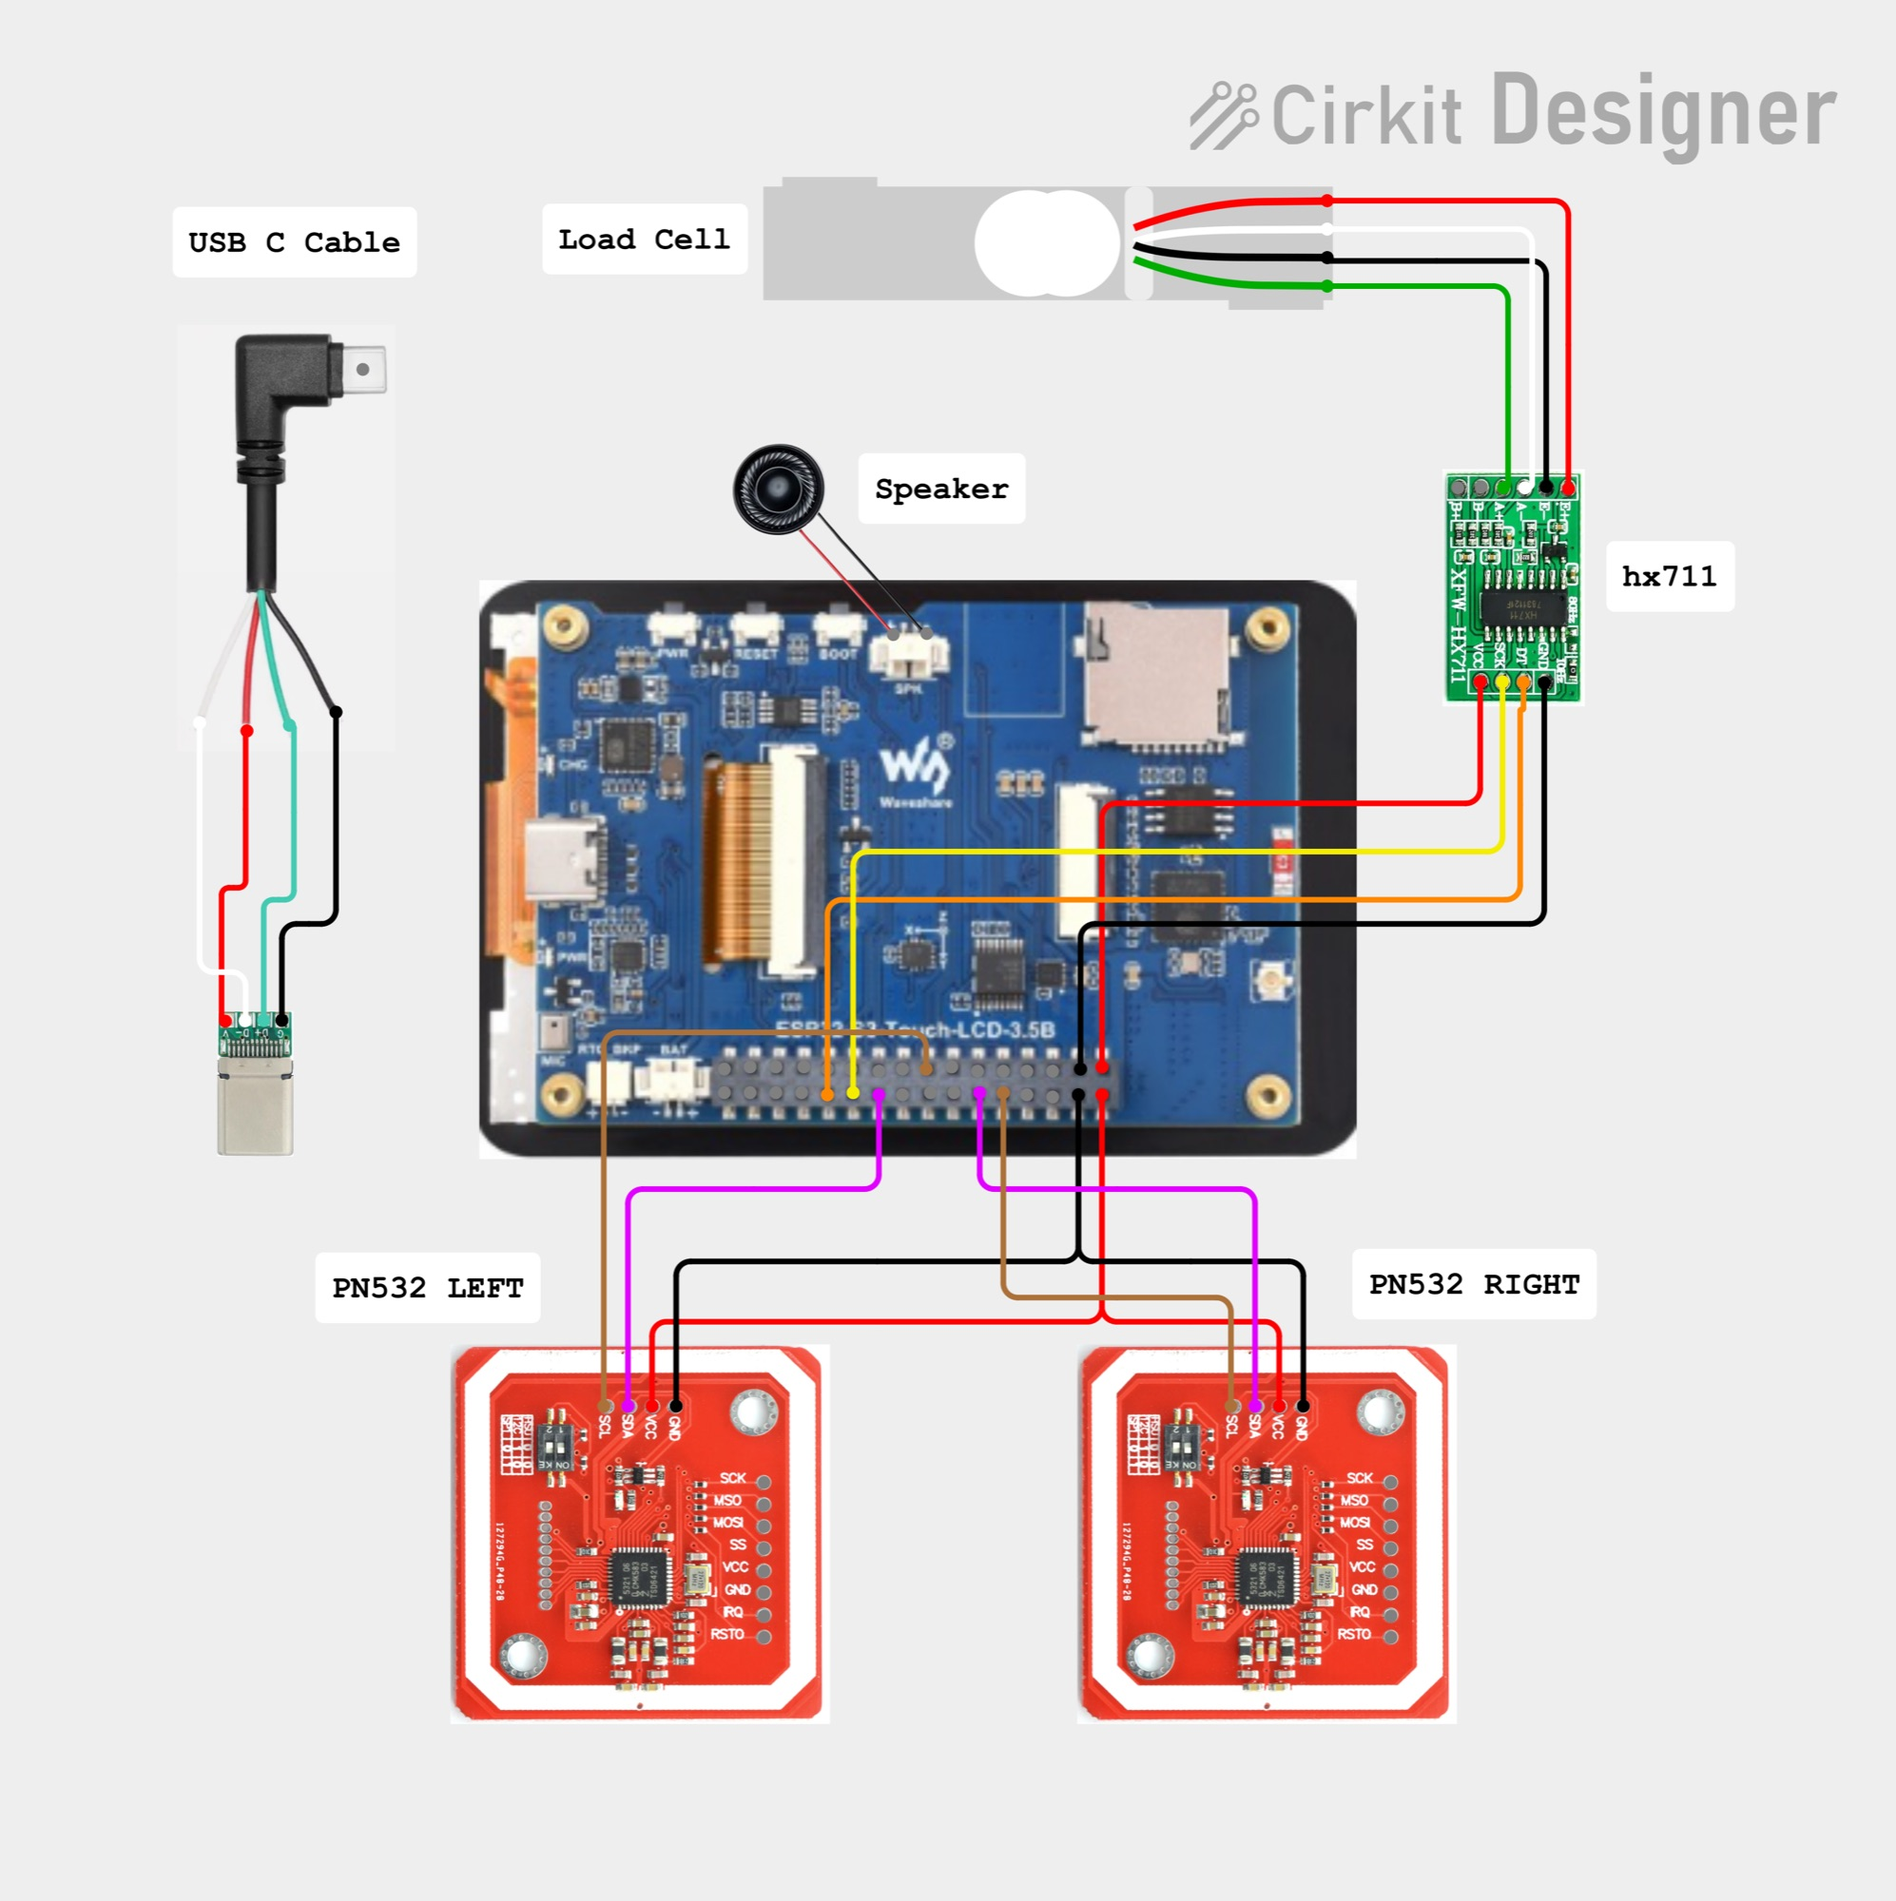
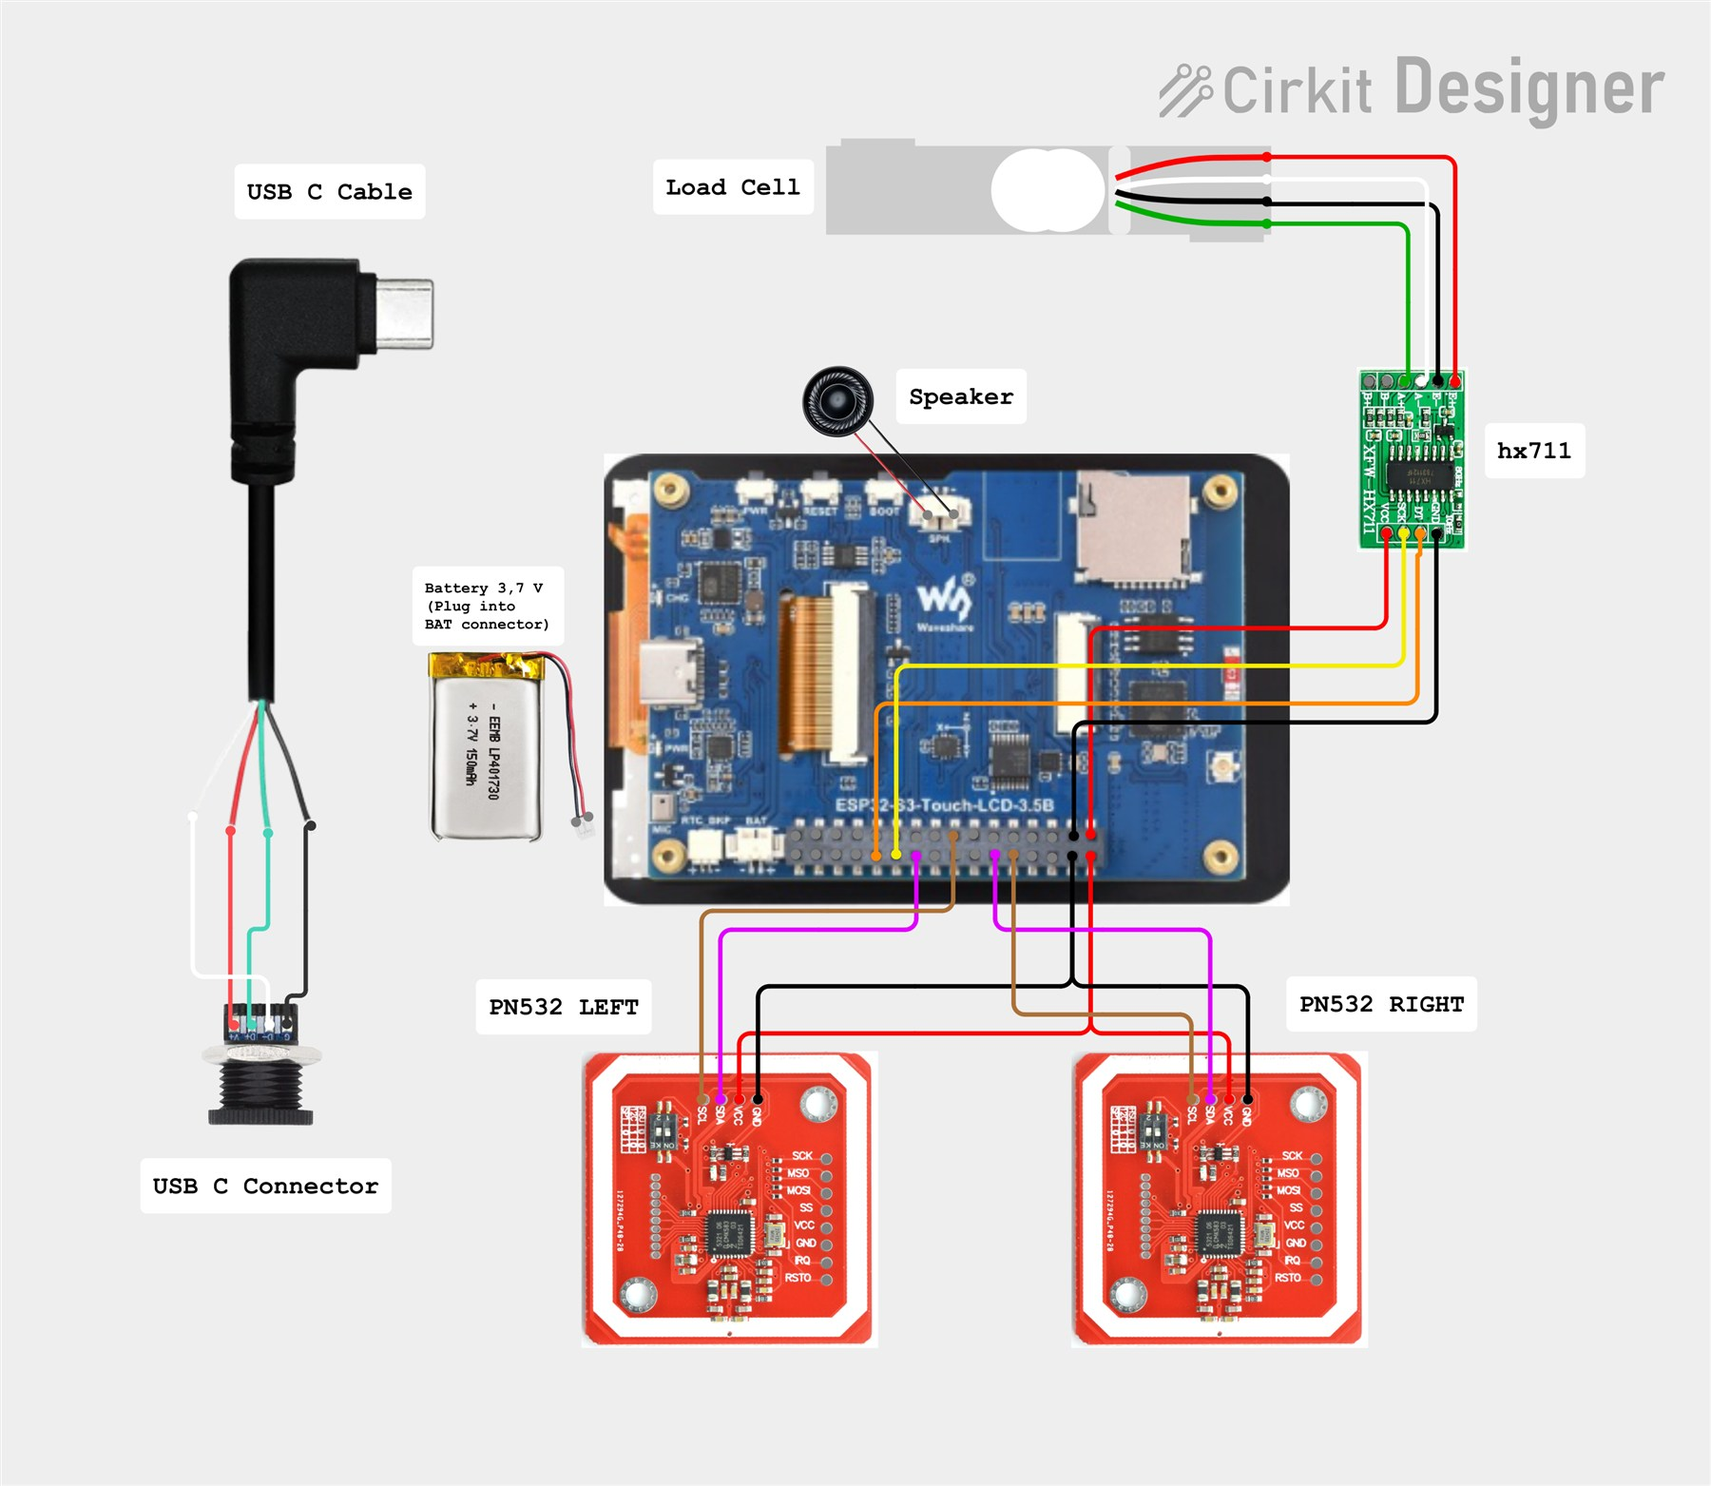
Add battery purchase link, assembly photos, and new wiring diagram (#7)
- Make the optional Li-ion battery a clickable Amazon link in the
  README and HARDWARE bill of materials, and add it as its own row
  (with the same link) in the web installer's shopping list, right
  after the USB-C connector.
- Add a 3D-printed enclosure assembly photo grid to the README (front/
  rear three-quarter, close-up, side elevation), plus real photos
  showing scale orientation and PN532 mounting position.
- Replace the wiring diagram with an updated Cirkit Designer render
  and point every reference (README, HARDWARE.md, web installer,
  MAKERWORLD.md) at the new project URL.

Changed region(s): [[0.2178, 0.0307, 0.9644, 0.9213], [0.0933, 0.1228, 0.2489, 0.7678]]

diff --git a/web-installer/i18n.js b/web-installer/i18n.js
@@ -40,7 +40,7 @@ en: {
   badge_single: "one reader",
   wiring_btn: "Not sure? Open the wiring diagram",
   wiring_hint: "Drag to turn the board, scroll to zoom. Click a wire to follow where it goes.",
-  cirkit_credit_html: 'Edit this project interactively in <a href="https://app.cirkitdesigner.com/project/f1310604-82fe-4458-9baa-9507c8e95c80" target="_blank" rel="noopener">Cirkit Designer</a>.',
+  cirkit_credit_html: 'Edit this project interactively in <a href="https://app.cirkitdesigner.com/project/c6aa6c0a-9462-498f-8923-9ad4454e0e69" target="_blank" rel="noopener">Cirkit Designer</a>.',
 
   s2_title: "Install",
   btn: "Connect and install",
@@ -76,6 +76,7 @@ en: {
   p_conn: "USB-C connector",
   p_wires: "Dupont wires",
   p_screws: "M3 self-tapping screws",
+  p_battery: "Li-ion battery (optional)",
   cart_incl: "Supplied with the board: the small speaker.",
   cart_opt: "Optional: a Li-ion battery. The scale runs on USB.",
   cart_full: "Full list with prices"
@@ -107,7 +108,7 @@ fr: {
   badge_single: "un lecteur",
   wiring_btn: "Pas sûr ? Ouvrir le schéma de câblage",
   wiring_hint: "Faites glisser pour tourner la carte, molette pour zoomer. Cliquez sur un fil pour suivre son trajet.",
-  cirkit_credit_html: 'Modifiez ce projet de façon interactive dans <a href="https://app.cirkitdesigner.com/project/f1310604-82fe-4458-9baa-9507c8e95c80" target="_blank" rel="noopener">Cirkit Designer</a>.',
+  cirkit_credit_html: 'Modifiez ce projet de façon interactive dans <a href="https://app.cirkitdesigner.com/project/c6aa6c0a-9462-498f-8923-9ad4454e0e69" target="_blank" rel="noopener">Cirkit Designer</a>.',
 
   s2_title: "Installer",
   btn: "Connecter et installer",
@@ -143,6 +144,7 @@ fr: {
   p_conn: "Connecteur USB-C",
   p_wires: "Fils Dupont",
   p_screws: "Vis autotaraudeuses M3",
+  p_battery: "Batterie Li-ion (optionnel)",
   cart_incl: "Fourni avec la carte : le petit haut-parleur.",
   cart_opt: "Optionnel : une batterie Li-ion. La balance fonctionne sur USB.",
   cart_full: "Liste complète avec les prix"
@@ -174,7 +176,7 @@ de: {
   badge_single: "ein Leser",
   wiring_btn: "Unsicher? Schaltplan öffnen",
   wiring_hint: "Ziehen zum Drehen, scrollen zum Zoomen. Auf eine Leitung klicken, um ihrem Verlauf zu folgen.",
-  cirkit_credit_html: 'Dieses Projekt interaktiv bearbeiten in <a href="https://app.cirkitdesigner.com/project/f1310604-82fe-4458-9baa-9507c8e95c80" target="_blank" rel="noopener">Cirkit Designer</a>.',
+  cirkit_credit_html: 'Dieses Projekt interaktiv bearbeiten in <a href="https://app.cirkitdesigner.com/project/c6aa6c0a-9462-498f-8923-9ad4454e0e69" target="_blank" rel="noopener">Cirkit Designer</a>.',
 
   s2_title: "Installieren",
   btn: "Verbinden und installieren",
@@ -210,6 +212,7 @@ de: {
   p_conn: "USB-C-Stecker",
   p_wires: "Dupont-Kabel",
   p_screws: "M3-Blechschrauben",
+  p_battery: "Li-Ionen-Akku (optional)",
   cart_incl: "Mit der Platine geliefert: der kleine Lautsprecher.",
   cart_opt: "Optional: ein Li-Ionen-Akku. Die Waage läuft über USB.",
   cart_full: "Vollständige Liste mit Preisen"
@@ -241,7 +244,7 @@ es: {
   badge_single: "un lector",
   wiring_btn: "¿No está seguro? Abra el esquema",
   wiring_hint: "Arrastre para girar la placa, use la rueda para acercar. Haga clic en un cable para seguir su recorrido.",
-  cirkit_credit_html: 'Edite este proyecto de forma interactiva en <a href="https://app.cirkitdesigner.com/project/f1310604-82fe-4458-9baa-9507c8e95c80" target="_blank" rel="noopener">Cirkit Designer</a>.',
+  cirkit_credit_html: 'Edite este proyecto de forma interactiva en <a href="https://app.cirkitdesigner.com/project/c6aa6c0a-9462-498f-8923-9ad4454e0e69" target="_blank" rel="noopener">Cirkit Designer</a>.',
 
   s2_title: "Instalar",
   btn: "Conectar e instalar",
@@ -277,6 +280,7 @@ es: {
   p_conn: "Conector USB-C",
   p_wires: "Cables Dupont",
   p_screws: "Tornillos autorroscantes M3",
+  p_battery: "Batería de litio (opcional)",
   cart_incl: "Incluido con la placa: el pequeño altavoz.",
   cart_opt: "Opcional: una batería de litio. La báscula funciona con USB.",
   cart_full: "Lista completa con precios"
@@ -308,7 +312,7 @@ it: {
   badge_single: "un lettore",
   wiring_btn: "Non sei sicuro? Apri lo schema",
   wiring_hint: "Trascina per ruotare la scheda, scorri per ingrandire. Clicca un filo per seguirne il percorso.",
-  cirkit_credit_html: 'Modifica questo progetto in modo interattivo su <a href="https://app.cirkitdesigner.com/project/f1310604-82fe-4458-9baa-9507c8e95c80" target="_blank" rel="noopener">Cirkit Designer</a>.',
+  cirkit_credit_html: 'Modifica questo progetto in modo interattivo su <a href="https://app.cirkitdesigner.com/project/c6aa6c0a-9462-498f-8923-9ad4454e0e69" target="_blank" rel="noopener">Cirkit Designer</a>.',
 
   s2_title: "Installa",
   btn: "Collega e installa",
@@ -344,6 +348,7 @@ it: {
   p_conn: "Connettore USB-C",
   p_wires: "Cavetti Dupont",
   p_screws: "Viti autofilettanti M3",
+  p_battery: "Batteria al litio (opzionale)",
   cart_incl: "Fornito con la scheda: il piccolo altoparlante.",
   cart_opt: "Opzionale: una batteria al litio. La bilancia funziona via USB.",
   cart_full: "Elenco completo con i prezzi"
@@ -375,7 +380,7 @@ pl: {
   badge_single: "jeden czytnik",
   wiring_btn: "Nie masz pewności? Otwórz schemat",
   wiring_hint: "Przeciągnij, aby obrócić płytkę, przewiń, aby przybliżyć. Kliknij przewód, aby prześledzić jego trasę.",
-  cirkit_credit_html: 'Edytuj ten projekt interaktywnie w <a href="https://app.cirkitdesigner.com/project/f1310604-82fe-4458-9baa-9507c8e95c80" target="_blank" rel="noopener">Cirkit Designer</a>.',
+  cirkit_credit_html: 'Edytuj ten projekt interaktywnie w <a href="https://app.cirkitdesigner.com/project/c6aa6c0a-9462-498f-8923-9ad4454e0e69" target="_blank" rel="noopener">Cirkit Designer</a>.',
 
   s2_title: "Instalacja",
   btn: "Połącz i zainstaluj",
@@ -411,6 +416,7 @@ pl: {
   p_conn: "Złącze USB-C",
   p_wires: "Przewody Dupont",
   p_screws: "Wkręty samogwintujące M3",
+  p_battery: "Akumulator litowo-jonowy (opcjonalnie)",
   cart_incl: "Dostarczany z płytką: mały głośnik.",
   cart_opt: "Opcjonalnie: akumulator litowo-jonowy. Waga działa na USB.",
   cart_full: "Pełna lista z cenami"
@@ -442,7 +448,7 @@ pt: {
   badge_single: "um leitor",
   wiring_btn: "Na dúvida? Abra o diagrama",
   wiring_hint: "Arraste para girar a placa, role para aproximar. Clique em um fio para seguir o caminho dele.",
-  cirkit_credit_html: 'Edite este projeto de forma interativa no <a href="https://app.cirkitdesigner.com/project/f1310604-82fe-4458-9baa-9507c8e95c80" target="_blank" rel="noopener">Cirkit Designer</a>.',
+  cirkit_credit_html: 'Edite este projeto de forma interativa no <a href="https://app.cirkitdesigner.com/project/c6aa6c0a-9462-498f-8923-9ad4454e0e69" target="_blank" rel="noopener">Cirkit Designer</a>.',
 
   s2_title: "Instalar",
   btn: "Conectar e instalar",
@@ -478,6 +484,7 @@ pt: {
   p_conn: "Conector USB-C",
   p_wires: "Fios Dupont",
   p_screws: "Parafusos autoatarraxantes M3",
+  p_battery: "Bateria de lítio (opcional)",
   cart_incl: "Vem com a placa: o alto-falante pequeno.",
   cart_opt: "Opcional: uma bateria de lítio. A balança funciona no USB.",
   cart_full: "Lista completa com preços"
@@ -509,7 +516,7 @@ pt: {
   badge_single: "um leitor",
   wiring_btn: "Sem certezas? Abra o esquema",
   wiring_hint: "Arraste para rodar a placa, use a roda para ampliar. Clique num fio para seguir o percurso.",
-  cirkit_credit_html: 'Edite este projeto de forma interactiva no <a href="https://app.cirkitdesigner.com/project/f1310604-82fe-4458-9baa-9507c8e95c80" target="_blank" rel="noopener">Cirkit Designer</a>.',
+  cirkit_credit_html: 'Edite este projeto de forma interactiva no <a href="https://app.cirkitdesigner.com/project/c6aa6c0a-9462-498f-8923-9ad4454e0e69" target="_blank" rel="noopener">Cirkit Designer</a>.',
 
   s2_title: "Instalar",
   btn: "Ligar e instalar",
@@ -545,6 +552,7 @@ pt: {
   p_conn: "Ficha USB-C",
   p_wires: "Fios Dupont",
   p_screws: "Parafusos autoperfurantes M3",
+  p_battery: "Bateria de lítio (opcional)",
   cart_incl: "Fornecido com a placa: o pequeno altifalante.",
   cart_opt: "Opcional: uma bateria de lítio. A balança funciona por USB.",
   cart_full: "Lista completa com preços"
@@ -576,7 +584,7 @@ zh: {
   badge_single: "单读卡器",
   wiring_btn: "不确定？打开接线图",
   wiring_hint: "拖动可旋转电路板，滚轮缩放。点一根线可以看它接到哪里。",
-  cirkit_credit_html: '在 <a href="https://app.cirkitdesigner.com/project/f1310604-82fe-4458-9baa-9507c8e95c80" target="_blank" rel="noopener">Cirkit Designer</a> 中交互式编辑这个项目。',
+  cirkit_credit_html: '在 <a href="https://app.cirkitdesigner.com/project/c6aa6c0a-9462-498f-8923-9ad4454e0e69" target="_blank" rel="noopener">Cirkit Designer</a> 中交互式编辑这个项目。',
 
   s2_title: "安装",
   btn: "连接并安装",
@@ -612,6 +620,7 @@ zh: {
   p_conn: "USB-C 接口板",
   p_wires: "杜邦线",
   p_screws: "M3 自攻螺丝",
+  p_battery: "锂电池（可选）",
   cart_incl: "随板附送：小喇叭。",
   cart_opt: "可选：锂电池。这台秤靠 USB 供电即可。",
   cart_full: "含价格的完整清单"

diff --git a/web-installer/index.html b/web-installer/index.html
@@ -481,7 +481,7 @@
       <summary data-i18n="wiring_btn"></summary>
       <p class="credit" data-i18n="wiring_hint"></p>
       <div class="frame">
-        <iframe src="https://app.cirkitdesigner.com/project/f1310604-82fe-4458-9baa-9507c8e95c80?view=interactive_preview"
+        <iframe src="https://app.cirkitdesigner.com/project/c6aa6c0a-9462-498f-8923-9ad4454e0e69?view=interactive_preview"
                 title="TigerScale V3 wiring" loading="lazy"></iframe>
       </div>
       <p class="credit" data-i18n-html="cirkit_credit_html"></p>
@@ -566,6 +566,9 @@
       <li><span class="q">1&times;</span>
         <span class="nm" data-i18n="p_conn"></span>
         <a class="buy" href="https://link.amazon/B0aiEyjLx" target="_blank" rel="noopener sponsored">Amazon</a></li>
+      <li><span class="q">1&times;</span>
+        <span class="nm" data-i18n="p_battery"></span>
+        <a class="buy" href="https://link.amazon/B0etKlE1i" target="_blank" rel="noopener sponsored">Amazon</a></li>
       <li><span class="q">&mdash;</span>
         <span class="nm" data-i18n="p_wires"></span>
         <a class="buy" href="https://link.amazon/B0bl6jvMs" target="_blank" rel="noopener sponsored">Amazon</a></li>

diff --git a/README.md b/README.md
@@ -173,7 +173,7 @@ the IDE has no equivalent for.
 | — | Dupont wires, M3 self-tapping screws | [wires](https://link.amazon/B0bl6jvMs) · [screws](https://link.amazon/B0ekzxx1E) |
 | — | 2× M4×30 and 2× M5×30 (load cell), 4× M2×6 (display) | — |
 | 1 | Small speaker | ships with the ESP32-S3 board |
-| 1 | Li-ion battery | optional — the scale runs on USB |
+| 1 | Li-ion battery | [optional](https://link.amazon/B0etKlE1i) — the scale runs on USB |
 | — | Enclosure — printable 3MF, Bambu Studio project | [download](https://github.com/TigerTag-Project/Tiger-Scale-V3/releases/download/enclosure/TigerScale-V3-enclosure.3mf) |
 
 Full costed list with every link: **[docs/HARDWARE.md](docs/HARDWARE.md#bill-of-materials)**
@@ -197,6 +197,42 @@ That link is permanent: it always serves the current revision, so it stays valid
 when the enclosure is updated. Any slicer that reads 3MF will open the file,
 though the plate arrangement is Bambu-specific.
 
+<table align="center">
+  <tr>
+    <td align="center">
+      <img src="docs/img/assembly-front-quarter.png" width="380" alt="TigerScale V3 enclosure, front three-quarter view"><br>
+      <sub>Front three-quarter</sub>
+    </td>
+    <td align="center">
+      <img src="docs/img/assembly-rear-quarter.png" width="380" alt="TigerScale V3 enclosure, rear three-quarter view"><br>
+      <sub>Rear three-quarter</sub>
+    </td>
+  </tr>
+  <tr>
+    <td align="center">
+      <img src="docs/img/assembly-rear-quarter-close.png" width="380" alt="TigerScale V3 enclosure, rear three-quarter close-up"><br>
+      <sub>Rear three-quarter, close</sub>
+    </td>
+    <td align="center">
+      <img src="docs/img/assembly-side-elevation.png" width="380" alt="TigerScale V3 enclosure, side elevation view"><br>
+      <sub>Side elevation</sub>
+    </td>
+  </tr>
+</table>
+
+<table align="center">
+  <tr>
+    <td align="center">
+      <img src="docs/img/scale-rear-orientation.jpg" width="380" alt="TigerScale V3 assembled, correct rear orientation"><br>
+      <sub>Scale position and orientation</sub>
+    </td>
+    <td align="center">
+      <img src="docs/img/pn532-mounting-position.jpg" width="380" alt="PN532 reader mounted in its enclosure slot"><br>
+      <sub>PN532 seated in its slot</sub>
+    </td>
+  </tr>
+</table>
+
 <p align="center">
   <a href="docs/HARDWARE.md#wiring-diagram">
     <img src="docs/img/wiring-hsu.jpg" alt="TigerScale V3 wiring diagram" width="700">
@@ -205,7 +241,7 @@ though the plate arrangement is Bambu-specific.
 
 <p align="center">
   <sub><a href="docs/HARDWARE.md#wiring-diagram">Pin-by-pin wiring</a> &nbsp;·&nbsp;
-  <a href="https://app.cirkitdesigner.com/project/f1310604-82fe-4458-9baa-9507c8e95c80">Interactive schematic in Cirkit Designer</a></sub>
+  <a href="https://app.cirkitdesigner.com/project/c6aa6c0a-9462-498f-8923-9ad4454e0e69">Interactive schematic in Cirkit Designer</a></sub>
 </p>
 
 Full pinout, bus topology and the wiring for each transport:

diff --git a/docs/HARDWARE.md b/docs/HARDWARE.md
@@ -61,7 +61,7 @@ nothing extra and helps keep the TigerTag cloud free.
 | 1 | **USB-C connector / breakout** | [Amazon](https://link.amazon/B0aiEyjLx) |
 | — | **Dupont wires** | [Amazon](https://link.amazon/B0bl6jvMs) |
 | 1 | Small speaker for the board's SPK connector — supplied with the board, gives the beep on tag detect | — |
-| 1 | Li-ion battery — optional; charging and level reporting are handled by the on-board AXP2101 | — |
+| 1 | Li-ion battery — optional; charging and level reporting are handled by the on-board AXP2101 | [Amazon](https://link.amazon/B0etKlE1i) |
 
 > [!WARNING]
 > **The sealed USB-C-only PN532 dongles will not work.** They have no pin header, and
@@ -86,14 +86,14 @@ has a complete, costed build of the previous generation if you want a reference.
 ### Wiring diagram
 
 <p align="center">
-  <a href="https://app.cirkitdesigner.com/project/f1310604-82fe-4458-9baa-9507c8e95c80">
+  <a href="https://app.cirkitdesigner.com/project/c6aa6c0a-9462-498f-8923-9ad4454e0e69">
     <img src="img/wiring-hsu.jpg" alt="TigerScale V3 wiring: ESP32-S3-Touch-LCD-3.5B, two PN532 readers over HSU, HX711 and load cell, speaker" width="820">
   </a>
 </p>
 
 <p align="center">
   <sub>The reference HSU build. Click through for the interactive, zoomable version
-  in <a href="https://app.cirkitdesigner.com/project/f1310604-82fe-4458-9baa-9507c8e95c80">Cirkit Designer</a>.</sub>
+  in <a href="https://app.cirkitdesigner.com/project/c6aa6c0a-9462-498f-8923-9ad4454e0e69">Cirkit Designer</a>.</sub>
 </p>
 
 **Read the PN532 pin labels carefully.** The diagram shows each reader's 4-pin
